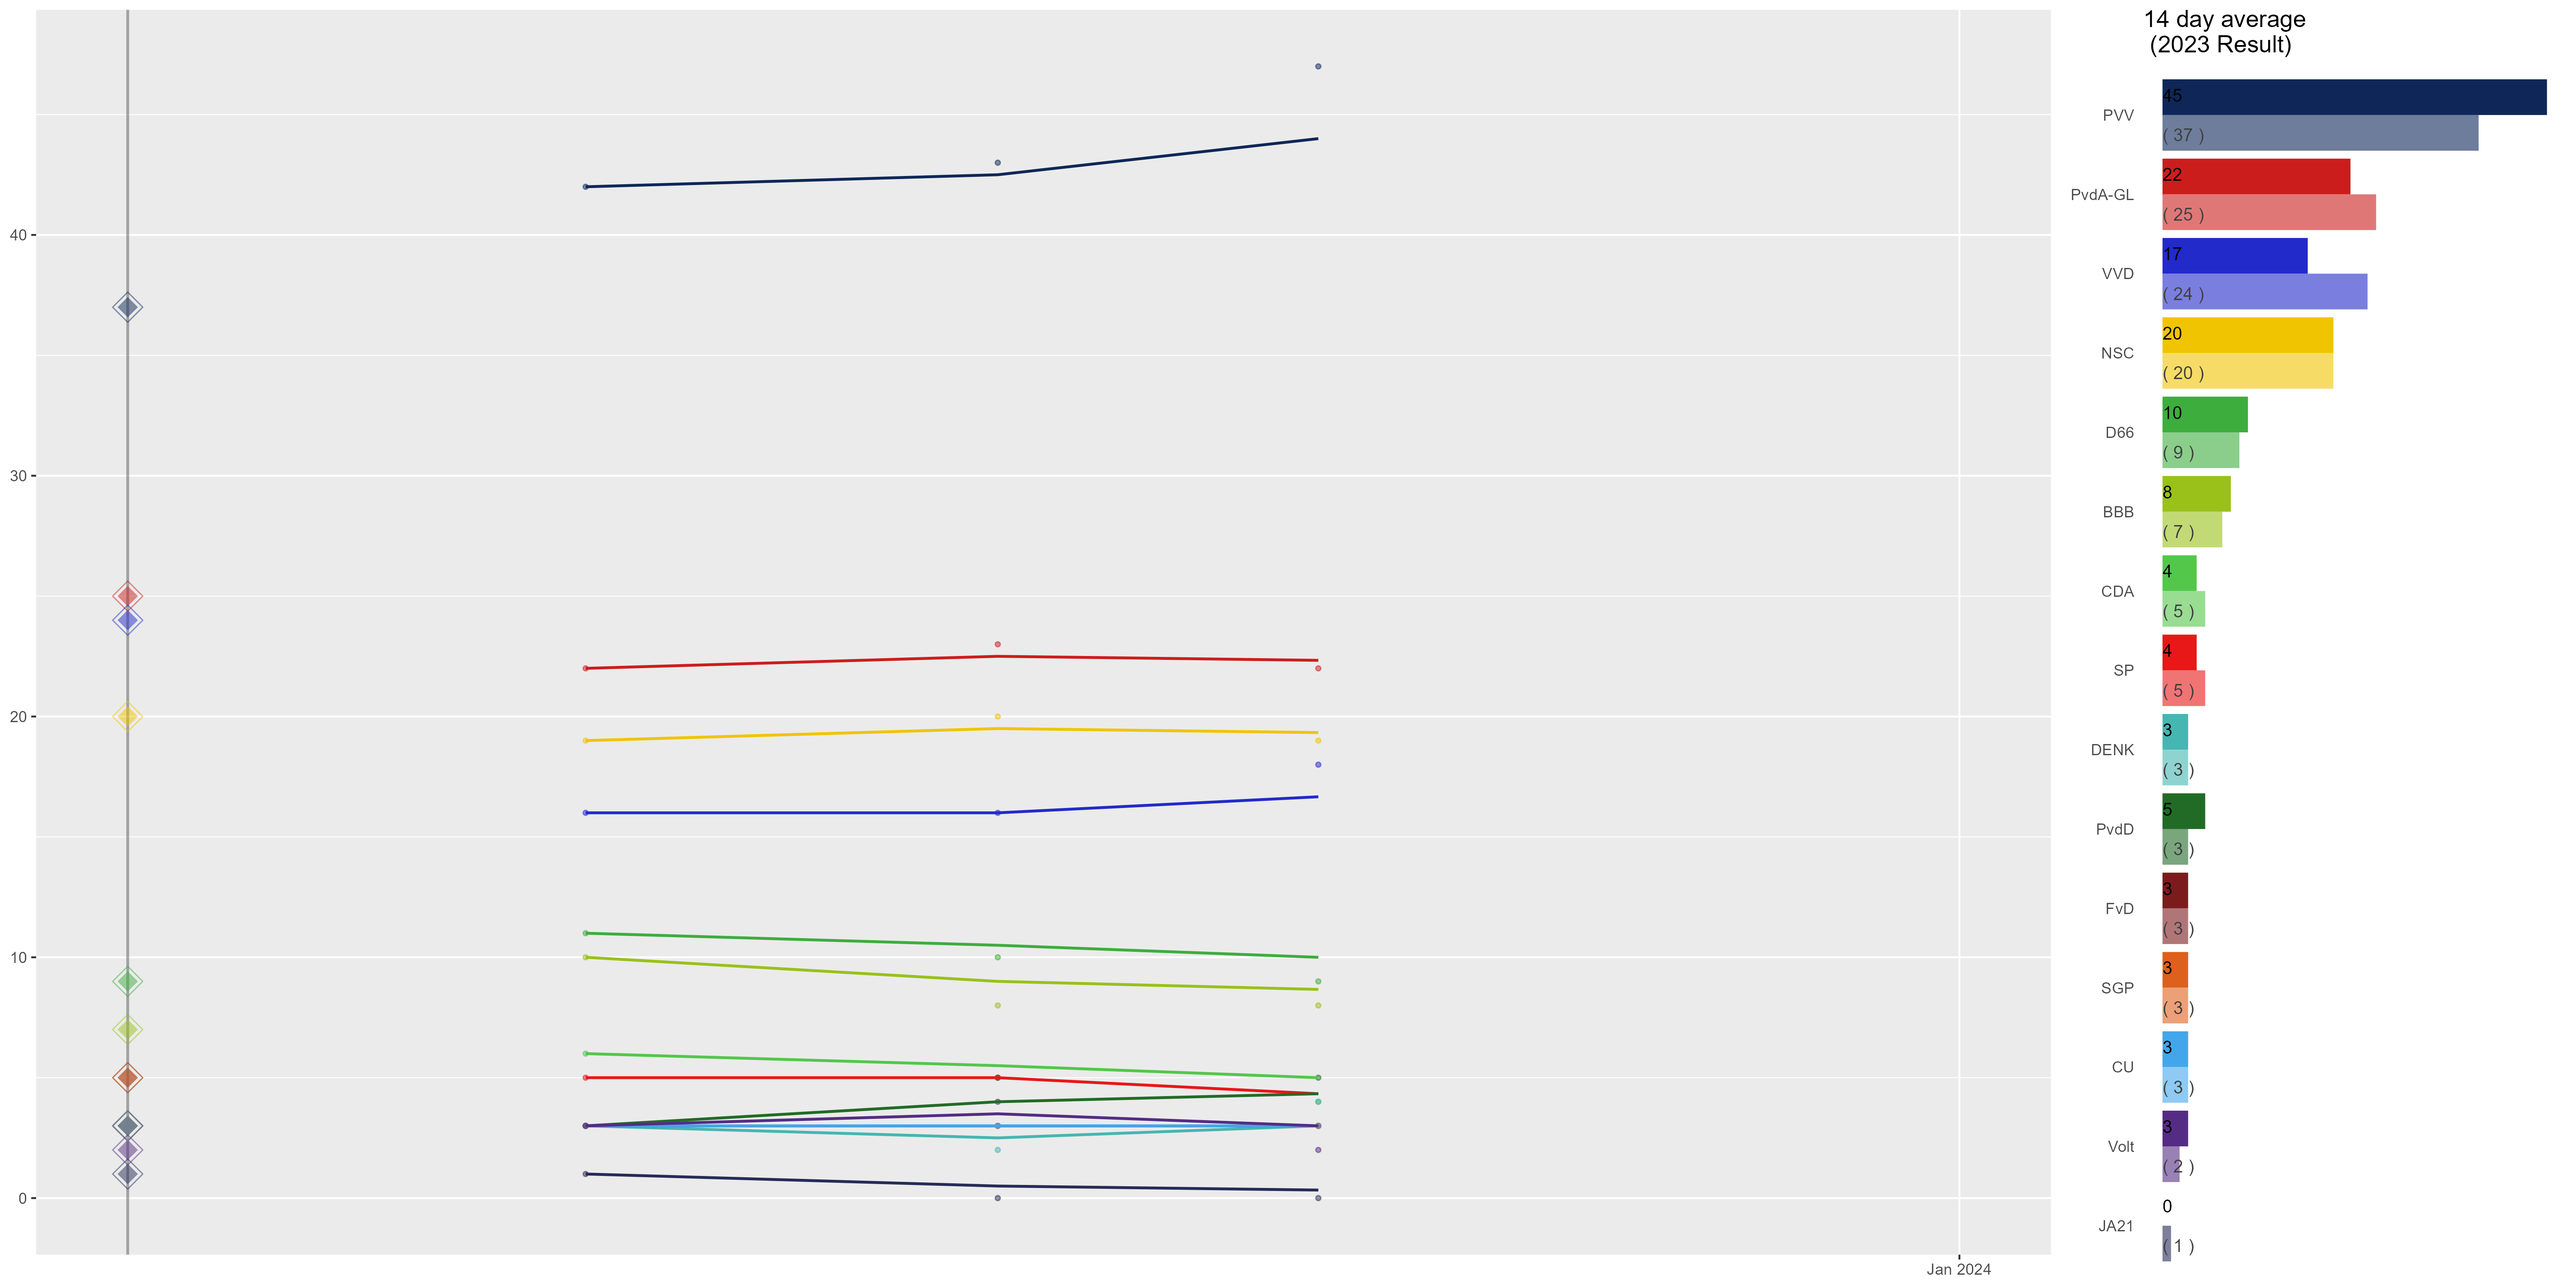
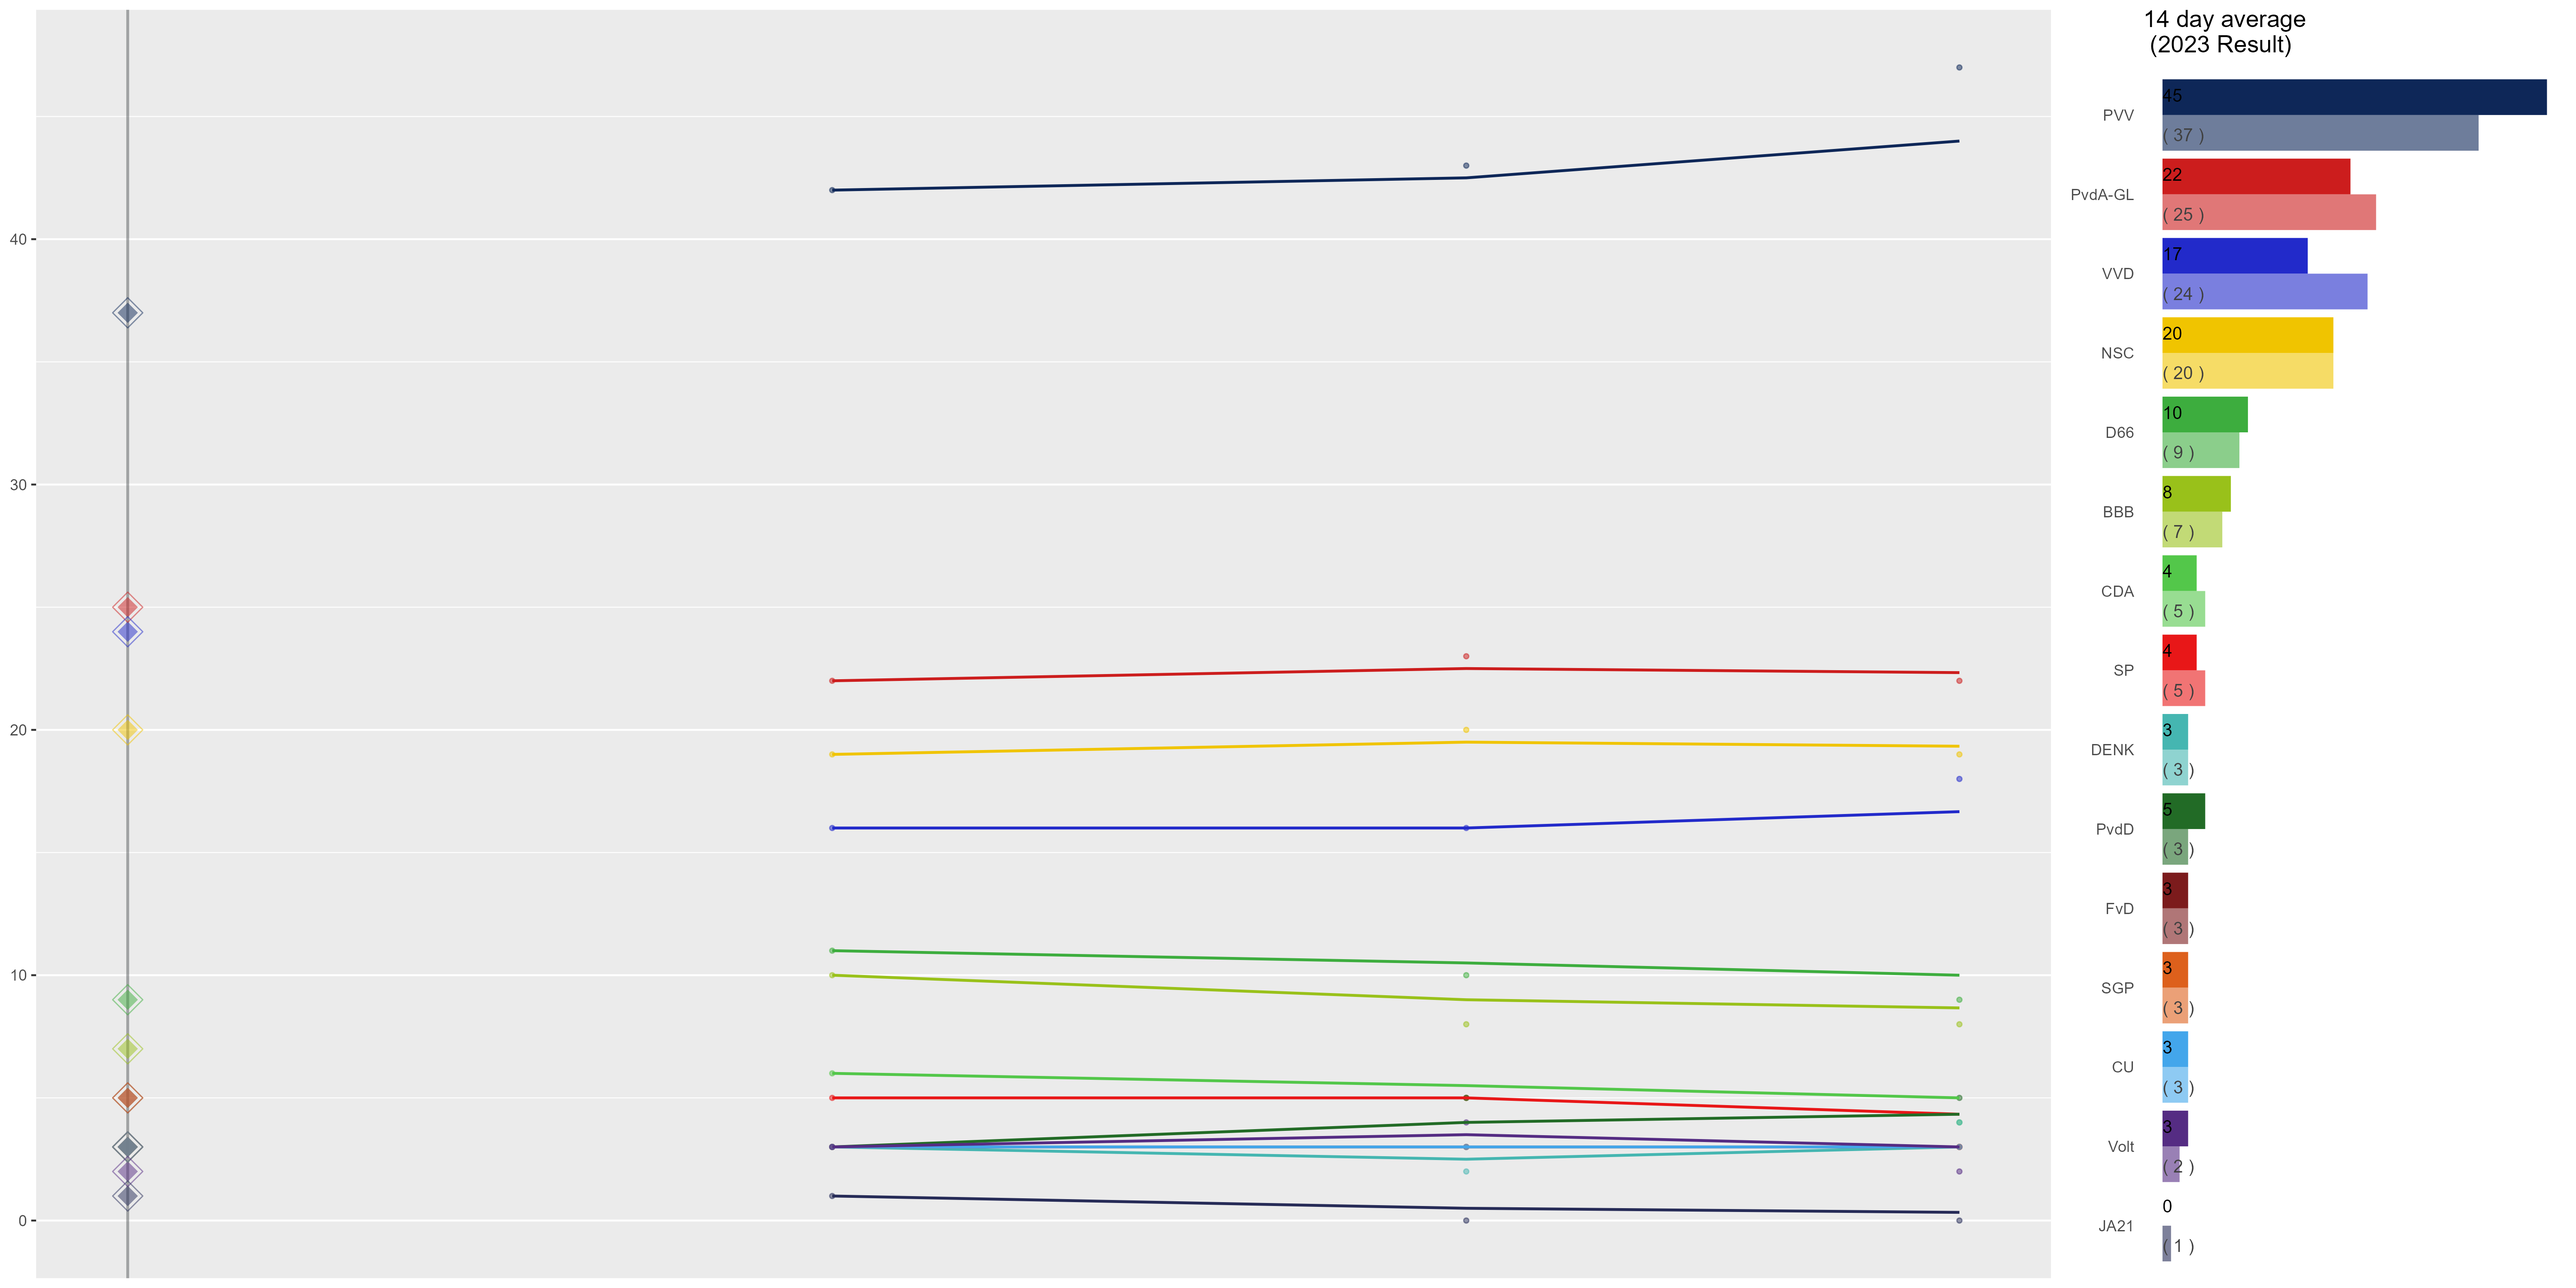
Fixed Dutch Polls

diff --git a/Dutch/data.py b/Dutch/data.py
@@ -5,7 +5,7 @@ import numpy as np
 import dateparser
 import re
 
-wikiurl="https://en.wikipedia.org/wiki/Opinion_polling_for_the_next_Dutch_general_election"
+wikiurl="https://en.wikipedia.org/wiki/Opinion_polling_for_the_2023_Dutch_general_election"
 table_class="wikitable sortable jquery-tablesorter"
 response=requests.get(wikiurl)
 print(response.status_code)
